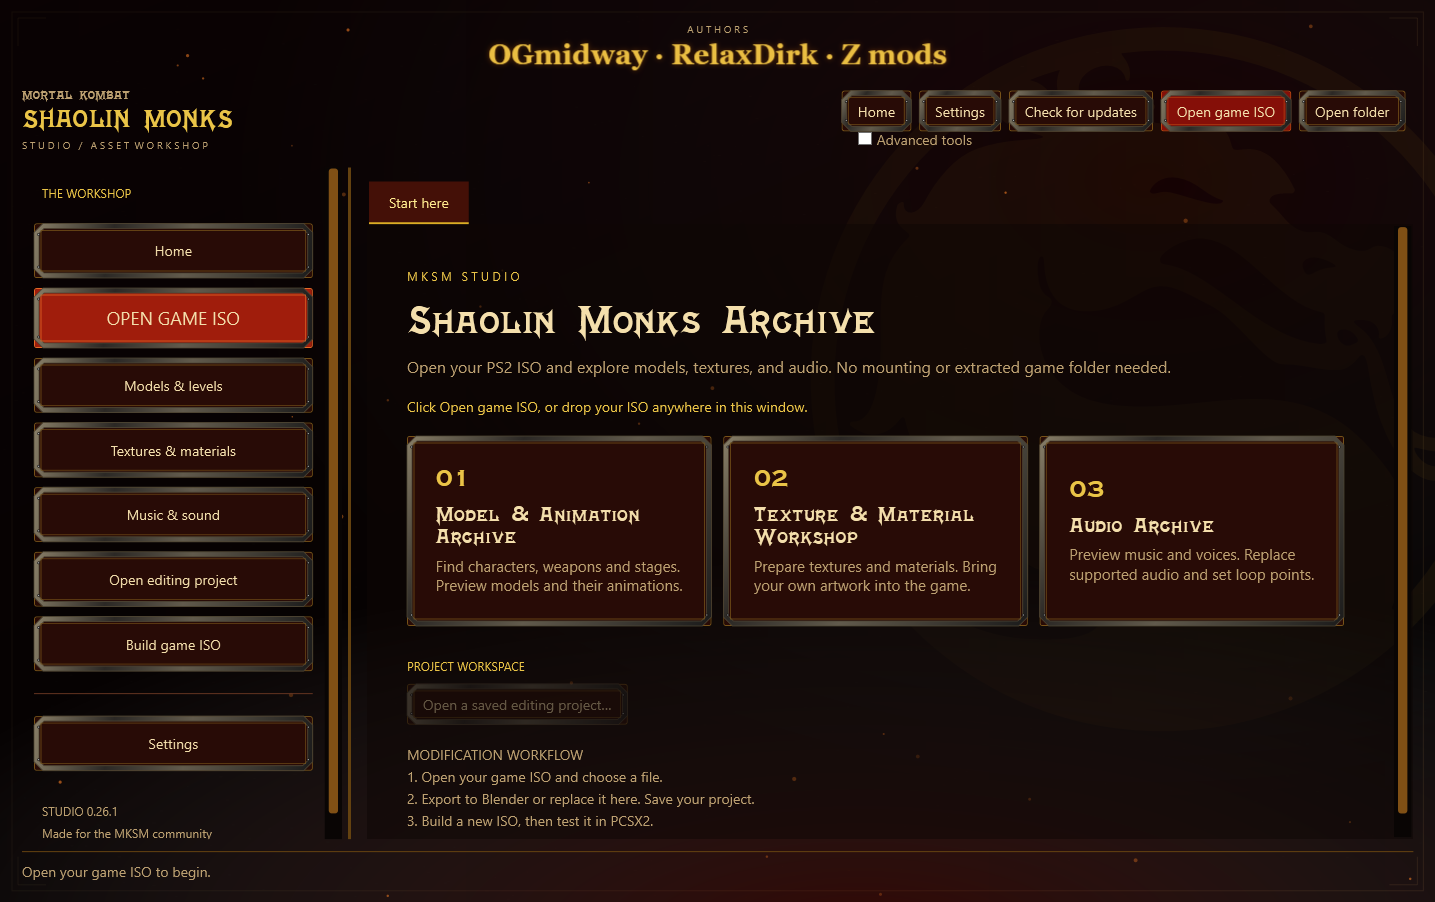
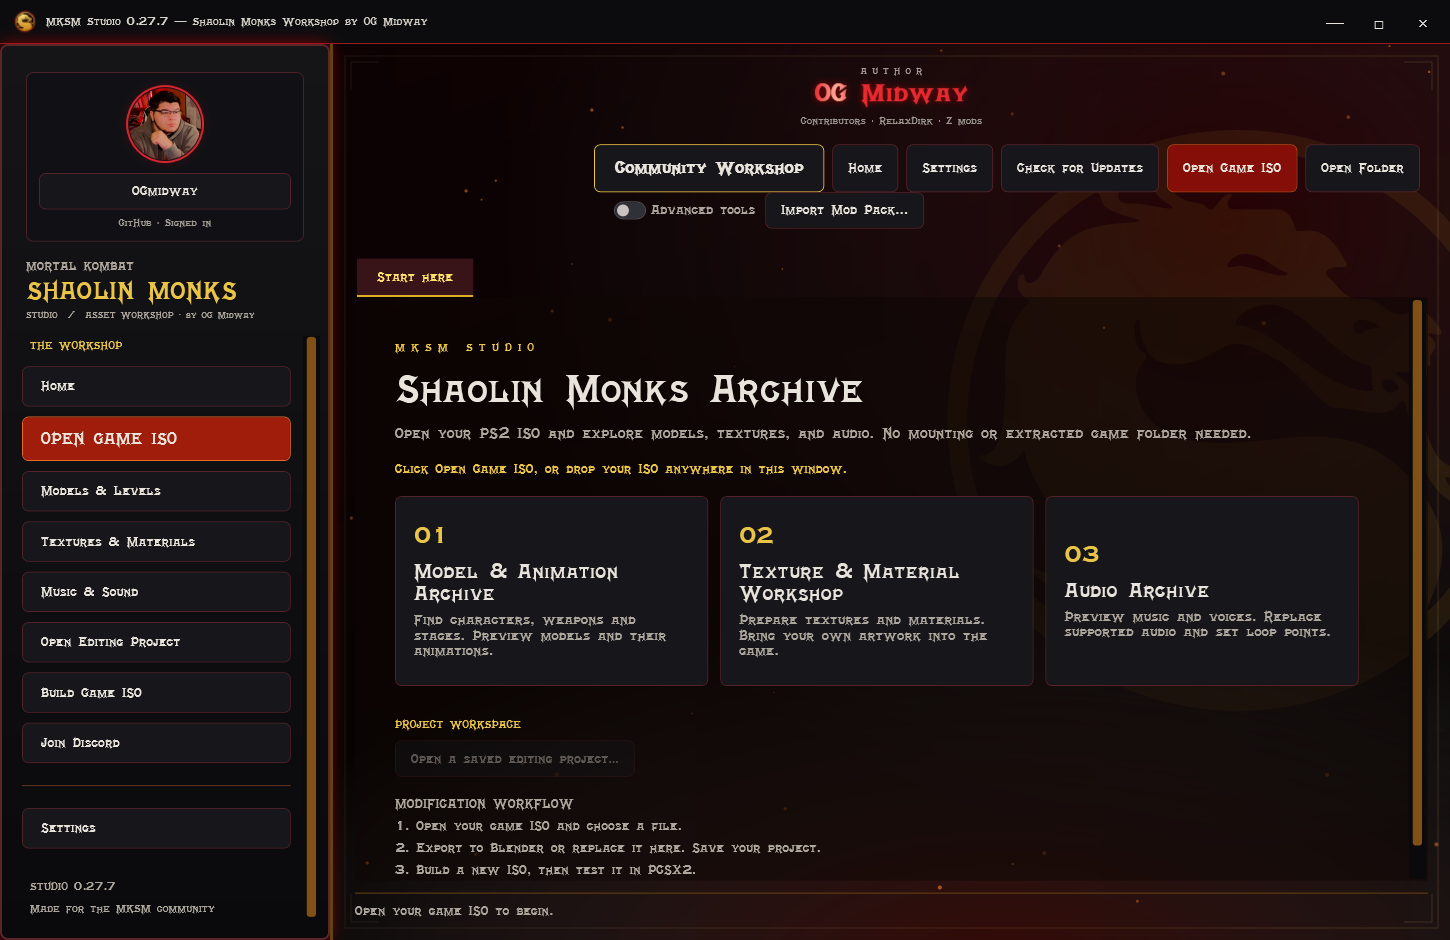
Refresh Studio interface and sole-author credits for 0.27.7

diff --git a/README.md b/README.md
@@ -4,7 +4,9 @@
 
 # Mortal Kombat Shaolin Monks Modding Tool by OG Midway
 
-**MKSM Studio — by OGmidway, RelaxDirk & Z mods**
+**MKSM Studio — by OG Midway**
+
+<sub>Contributors: RelaxDirk · Z mods</sub>
 
 Explore the game. Work with its characters and animations. Build a separate modded ISO to test your changes.
 
@@ -22,7 +24,9 @@ You do not need to mount or unpack the ISO to begin. You do need your own game f
 
 This is an independent, experimental modding tool. The best-tested workflows use the researched **USA PS2 revision**. Support for one resource or revision does not establish support for every version of the game.
 
-## 2. Current release: 0.27.6
+## 2. Current release: 0.27.7
+
+Clean red-and-black interface, integrated title bar, GitHub avatar, refreshed Workshop browsing and grouped Settings. Select your interface font under **Settings → Appearance → Typography**. Save, then reopen Studio to apply it.
 
 **Community Workshop:** browse character replacements, download them into your editing project, subscribe for version comparisons on refresh, and publish your own native character packages through GitHub. Creator uploads appear without an approval queue. OGmidway's authenticated owner account can remove any listing; other creators manage only their own. [Workshop guide](docs/COMMUNITY_WORKSHOP.md).
 
@@ -44,7 +48,7 @@ Custom **SFD conversion requires FFmpeg**; MP4/WMV can be selected directly. The
 
 ### Existing Blender workflow (Bridge 0.25.1)
 
-**New to character swaps? [Start with the simple Blender guide](docs/CHARACTER_START_HERE.md).** [Blender Bridge 0.25.1](https://github.com/OGmidway/Mortal-Kombat-Shaolin-Monks-Modding-Tool/releases/download/v0.25.6/MKSM-Blender-Bridge-0.25.1.zip) adds **Set up game textures (keep more detail)**. Automatic mode uses multiple original slots; choose two or three atlases if you want fewer textures. Original weights stay unchanged, and textures used by kept native meshes are protected. Install the add-on separately; The application is now 0.27.6.
+**New to character swaps? [Start with the simple Blender guide](docs/CHARACTER_START_HERE.md).** [Blender Bridge 0.25.1](https://github.com/OGmidway/Mortal-Kombat-Shaolin-Monks-Modding-Tool/releases/download/v0.25.6/MKSM-Blender-Bridge-0.25.1.zip) adds **Set up game textures (keep more detail)**. Automatic mode uses multiple original slots; choose two or three atlases if you want fewer textures. Original weights stay unchanged, and textures used by kept native meshes are protected. Install the add-on separately; The application is now 0.27.7.
 
 **New in Bridge 0.25.1:** optional **Clean weights on export**, plus **Preview cleaned weights on a copy** and a weight-change report. This handles triangles that touch more than three bones after topology changes. Originals stay untouched. A per-vertex removal limit prevents unexpectedly large changes; default 25%. This does not fix or bypass game memory limits. [Cleanup steps](docs/CHARACTER_START_HERE.md#reduced-polygons-or-changed-geometry).
 
@@ -137,7 +141,7 @@ This public repository contains documentation and release downloads. **The main 
 
 ## 8. Credits and support
 
-**Tool authors: OGmidway, RelaxDirk & Z mods.** See [Credits and notices](docs/CREDITS.md) for research references, runtime licenses and dragon artwork attribution.
+**Author: OG Midway.** Contributors: RelaxDirk and Z mods. See [Credits and notices](docs/CREDITS.md) for research references, runtime licenses and dragon artwork attribution.
 
 For a useful bug report, include the tool version, game region/revision, resource ID, steps to reproduce, and exact error. Share a screenshot or text report where helpful; do not upload an ISO, BIOS or extracted game archive. See [support details](docs/UPDATES_AND_HELP.md#reporting-a-problem).
 

diff --git a/docs/PREVIOUS_BUILDS.md b/docs/PREVIOUS_BUILDS.md
@@ -2,7 +2,7 @@
 
 [Home](../README.md) · [Release notes](../CHANGELOG.md) · [Updates and recovery](UPDATES_AND_HELP.md) · [Roadmap](ROADMAP.md)
 
-**Current recommended version: [0.27.6](https://github.com/OGmidway/Mortal-Kombat-Shaolin-Monks-Modding-Tool/releases/tag/v0.27.6).** [Download latest](https://github.com/OGmidway/Mortal-Kombat-Shaolin-Monks-Modding-Tool/releases/latest).
+**Current recommended version: [0.27.7](https://github.com/OGmidway/Mortal-Kombat-Shaolin-Monks-Modding-Tool/releases/tag/v0.27.7).** [Download latest](https://github.com/OGmidway/Mortal-Kombat-Shaolin-Monks-Modding-Tool/releases/latest).
 
 This archive keeps superseded public builds easy to find. The downloads remain in their original GitHub releases; no application files or signatures are moved or rewritten. Start with the current version for normal use.
 
@@ -12,6 +12,7 @@ All rows below are previous builds, newest first. Dates are the original publica
 
 | Version / release notes | Published (UTC) | Main change | Windows download |
 |---|---|---|---|
+| [0.27.6](https://github.com/OGmidway/Mortal-Kombat-Shaolin-Monks-Modding-Tool/releases/tag/v0.27.6) | 2026-10-01 | See the linked release notes | [Windows ZIP](https://github.com/OGmidway/Mortal-Kombat-Shaolin-Monks-Modding-Tool/releases/download/v0.27.6/MKSM-Studio-0.27.6-win-x64.zip) |
 | [0.27.5](https://github.com/OGmidway/Mortal-Kombat-Shaolin-Monks-Modding-Tool/releases/tag/v0.27.5) | 2026-09-30 | See the linked release notes | [Windows ZIP](https://github.com/OGmidway/Mortal-Kombat-Shaolin-Monks-Modding-Tool/releases/download/v0.27.5/MKSM-Studio-0.27.5-win-x64.zip) |
 | [0.27.4](https://github.com/OGmidway/Mortal-Kombat-Shaolin-Monks-Modding-Tool/releases/tag/v0.27.4) | 2026-09-30 | See the linked release notes | [Windows ZIP](https://github.com/OGmidway/Mortal-Kombat-Shaolin-Monks-Modding-Tool/releases/download/v0.27.4/MKSM-Studio-0.27.4-win-x64.zip) |
 | [0.27.3](https://github.com/OGmidway/Mortal-Kombat-Shaolin-Monks-Modding-Tool/releases/tag/v0.27.3) | 2026-09-30 | See the linked release notes | [Windows ZIP](https://github.com/OGmidway/Mortal-Kombat-Shaolin-Monks-Modding-Tool/releases/download/v0.27.3/MKSM-Studio-0.27.3-win-x64.zip) |

diff --git a/CHANGELOG.md b/CHANGELOG.md
@@ -1,3 +1,19 @@
+# MKSM Studio 0.27.7 — Interface & Community Refresh
+
+- OG Midway is the sole author. RelaxDirk and Z mods are credited separately as contributors.
+- Application title, executable metadata, header, Blender helper and project pages use the updated credits.
+- Dark integrated title bar with standard window controls; clean rounded outlines replace silver bevels. Buttons highlight with a red glow.
+- Red author shimmer/pulse, black panels and restrained gold accents.
+- Community Workshop has wrapping mod cards, clear mod titles, compact creator credits and a framed model/image preview.
+- GitHub profile panel shows your account avatar. Click your name to open GitHub; account refresh reloads the picture. Permissions still come from the authenticated account.
+- Settings are organized into Appearance, Audio and Application. Volume controls retain percentages and live preview; Save stays visible.
+- Choose among 14 bundled font styles from the MK font collection, or load a TTF/OTF. MK4 is the default; system font is also available. Reopen Studio after saving a font change. This collection does not include a separately verified MK9 font.
+- Public and private source builds keep separate signed update channels and the existing installation-replacement behavior.
+
+This release changes presentation and credits. Experimental engine/memory patches are not included.
+
+---
+
 # MKSM Studio 0.27.6 — Persistent Source Updates
 
 - Source updates now replace the original application and Source folder. Existing shortcuts reopen the newest version.

diff --git a/docs/CREDITS.md b/docs/CREDITS.md
@@ -2,11 +2,17 @@
 
 [Home](../README.md)
 
-## Tool authors
+## Author
 
-**OGmidway, RelaxDirk & Z mods**
+**OG Midway** — Mortal Kombat Shaolin Monks Modding Tool / MKSM Studio.
 
-Presented as **Mortal Kombat Shaolin Monks Modding Tool by OG Midway**, with all three tool authors credited in the application and documentation.
+### Contributors
+
+RelaxDirk and Z mods.
+
+## Interface fonts
+
+Bundled font collection is sourced from [Mortal Kombat Warehouse's font page](https://www.mortalkombatwarehouse.com/site/fonts/). Font creators credited by that page include Murdoink, Paolo Baglioni, Dennis Ferrand, F-Rott, AthemWulf and the listed font designers. Original game designs and third-party fonts retain their respective ownership and terms. Font choices include MK1–4, Mythologies, Deadly Alliance, Armageddon, MK title, MKX, MK11 and MK1 (2023) styles, plus the supplied Fatality and menu fonts. A distinct MK9 font is not verified or bundled.
 
 ## Research references
 
